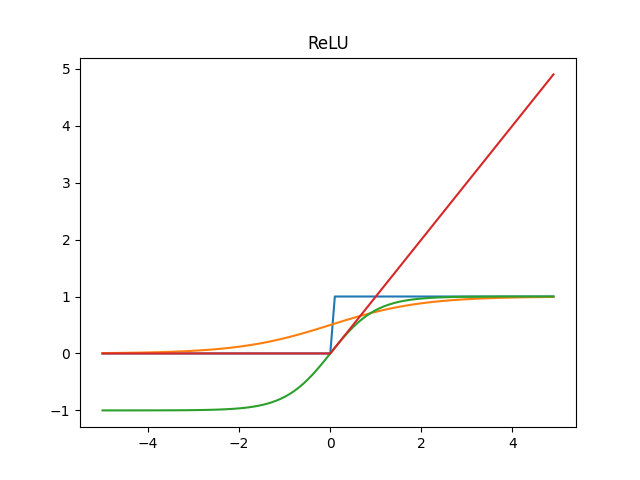
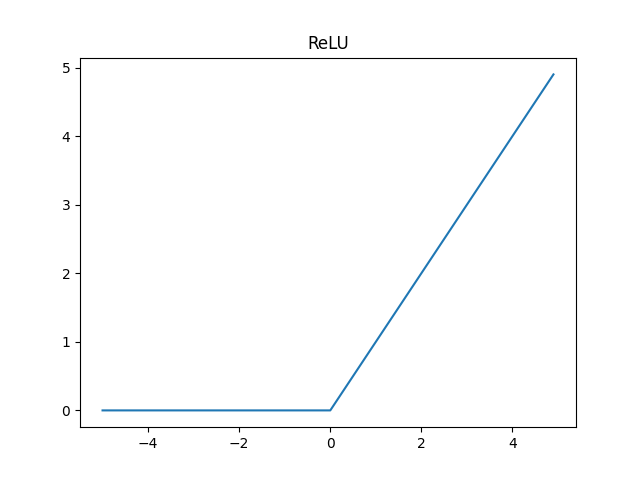
refactoring - activation_function_example.py -- add plt.clf() -- modify graph image

diff --git a/activation_function/activation_function_example.py b/activation_function/activation_function_example.py
@@ -17,6 +17,7 @@ def draw_graph(activation_function, graph_title):
     plt.plot(x, y)
 
     plt.savefig(f"graph/{graph_title}.png")
+    plt.clf()
 
 
 if __name__ == "__main__":

diff --git a/activation_function/activation_function.py b/activation_function/activation_function.py
@@ -20,5 +20,3 @@ def tanh(a):
 
 def relu(a):
     return np.maximum(0, a)
-
-
